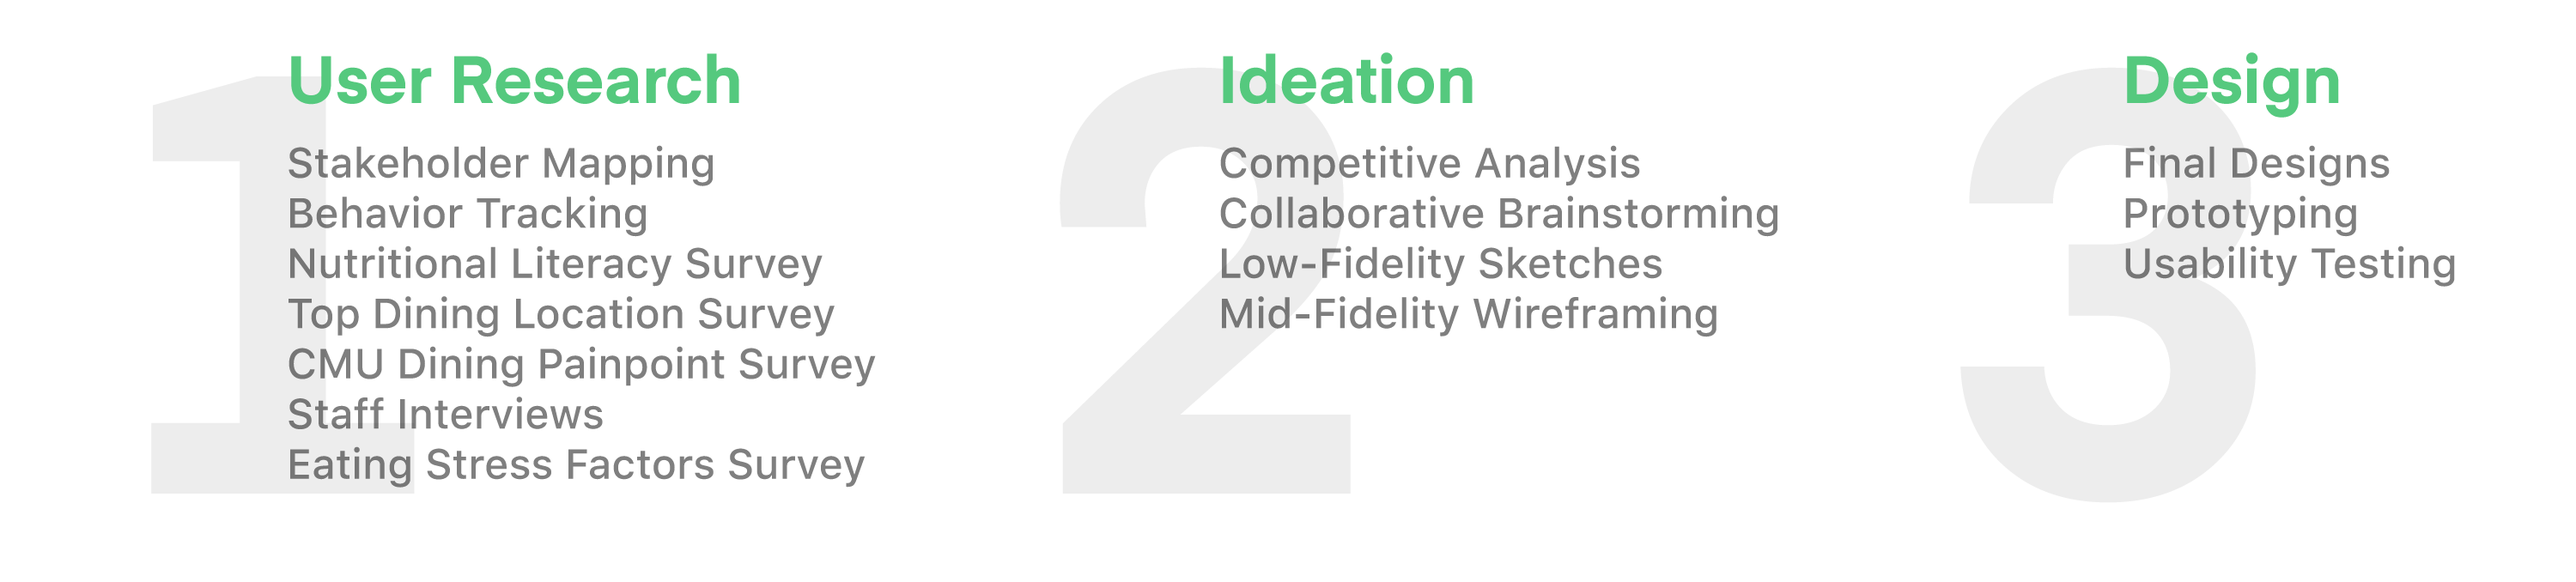
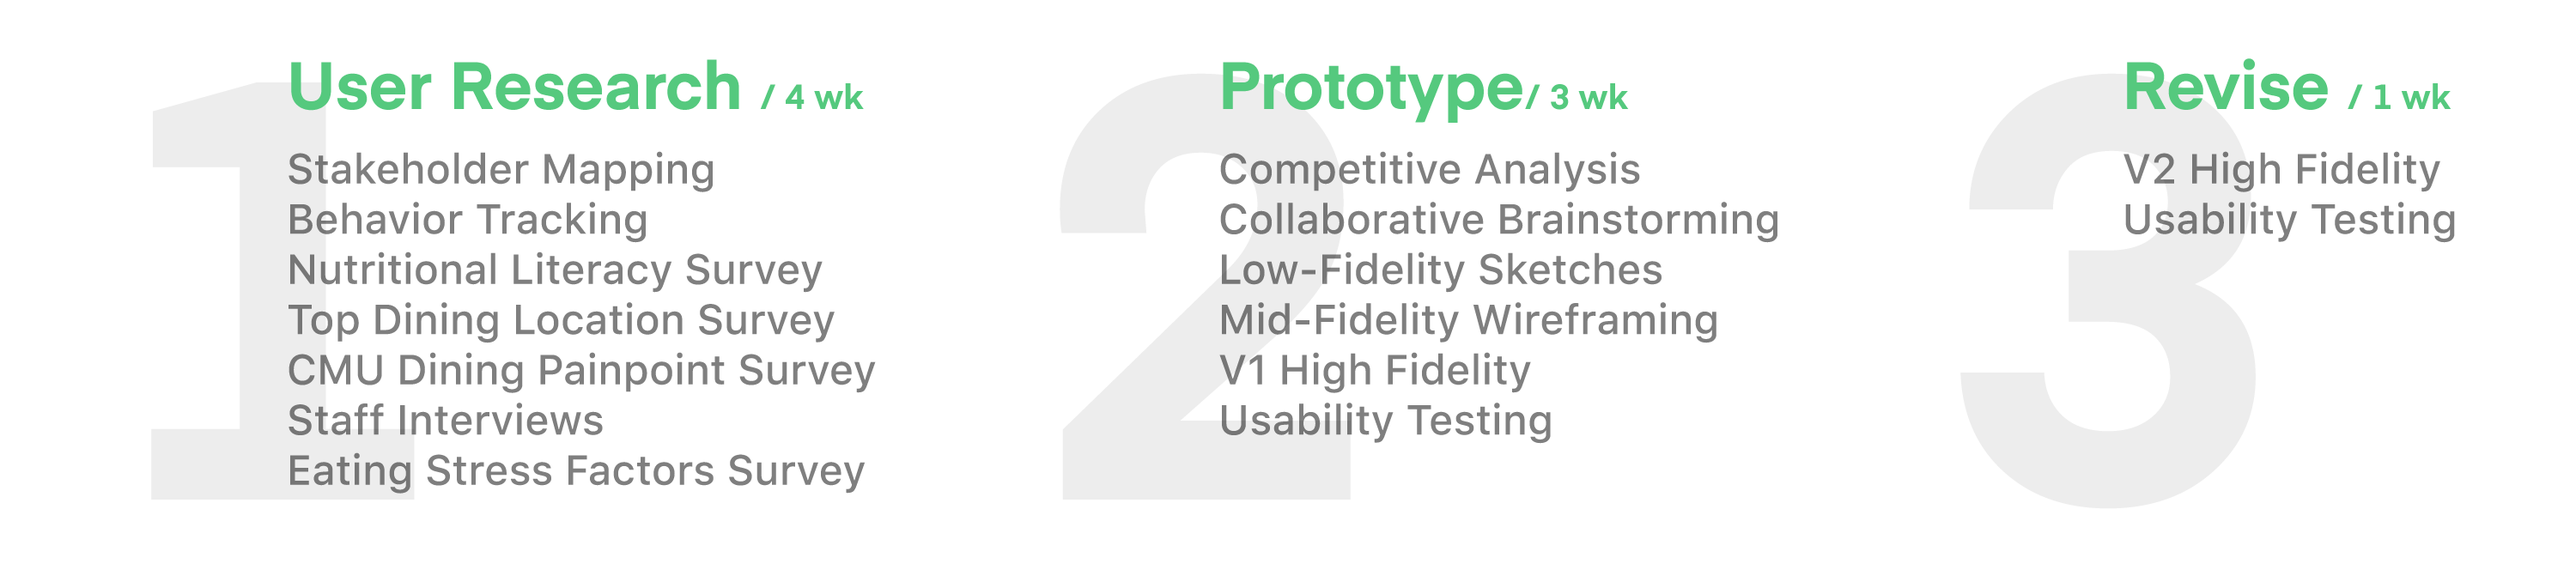
1

diff --git a/project_nutritionalLiteracy.html b/project_nutritionalLiteracy.html
@@ -227,7 +227,7 @@
                 <!-- IDEATION -->
                 <div class = 'gray-container'>
                     <div class='text-wrap'>
-                        <h4 class = 'left'>Ideation</h4>
+                        <h4 class = 'left'>Ideation + Prototyping</h4>
                         <div class = 'right'>
                             <h5>Competitive Analysis</h5>
                             <p>Upon finishing research, we looked at popular food and lifestyle apps to see what they did well. We chose these apps because of their popularity, practicality, ability to categorize large amounts of information, and convey/create emotion</p>
@@ -248,123 +248,124 @@
                     <img class='image-container' src="images/project_nutritionalLiteracy/I_sketches.jpg">
                     <p class='caption'>Doodles in my trust Moleskins</p>
                     <div class='spacer'></div>
-                    <img class='image-container' src="images/project_nutritionalLiteracy/P_lowFid.png">
-                    <p class='caption '>Sketch & Craft Prototyping</p>
+                    <img class='image-container' src="images/project_nutritionalLiteracy/P_lowFid2.png">
+                    <p class='caption '>High Fidelity</p>
+                    <div class='spacer'></div>
+                    <img class='image-container' src="images/project_nutritionalLiteracy/P_screenTest.jpg">
+                    <p class='caption '>UI Readability & Usability Testing</p>
+                    <!-- <div class='spacer'></div>
+
+                    <div class='text-wrap'>
+                        <div class = 'right'>
+                            <h4> Usability Test — Currently in Process</h4>
+                            <p>Documentation will be up soon!</p>
+                        </div>
+                    </div> -->
                 </div>
+                    <!-- FINAL DESIGNS -->
+                    <div class = 'white-container'>
+                        <div class='text-wrap'>
+                            <h4 class = 'left'>Final Designs</h4>
+                            <div class = 'right'>
+                                <h5>Overview</h5>
+                                <p>In our final app intervention, we made sure to cater towards the wide spectrum of CMU students and their dietary needs. The primary features we decided to design for include:</p><br>
 
-                                <!-- IDEATION -->
-                                <div class = 'white-container'>
-                                    <div class='text-wrap'>
-                                        <h4 class = 'left'>Final Designs</h4>
-                                        <div class = 'right'>
-                                            <h5>Overview</h5>
-                                            <p>In our final app intervention, we made sure to cater towards the wide spectrum of CMU students and their dietary needs. The primary features we decided to design for include:</p><br>
+                                <i style='color:#47b46d;'>
+                                01 / Living Dining Calendar<br><br>
+                                02 / Pre-order System<br><br>
+                                03 / Recipe Exploring + Sharing<br><br>
+                                04 / User Profile Hub<br><br>
+                                05 / CMU Health Services<br><br>
+                                06 / Emotional Check-ins</i><br><br>
 
-                                            <i style='color:#47b46d;'>
-                                            01 / Living Dining Calendar<br><br>
-                                            02 / Pre-order System<br><br>
-                                            03 / Recipe Exploring + Sharing<br><br>
-                                            04 / User Profile Hub<br><br>
-                                            05 / CMU Health Services<br><br>
-                                            06 / Emotional Check-ins</i><br><br>
+                                <h5>Live Dining — Calendar</h5>
+                                <p>The primary function for this app is the live dining calendar for on-campus restaurants. This already exists on CMU’s website as well as on a student-built site called CMU Eats, but the issue right now is a lot of valuable information on CMU dining is scattered across the web and across various digital services. <br><br>
 
-                                            <h5>Live Dining — Calendar</h5>
-                                            <p>The primary function for this app is the live dining calendar for on-campus restaurants. This already exists on CMU’s website as well as on a student-built site called CMU Eats, but the issue right now is a lot of valuable information on CMU dining is scattered across the web and across various digital services. <br><br>
+                                This feature is important to the app because it’s the practical feature that will keep students consistently using the app, and ultimately lead them to our more important features, which will be discussed later.
+                                From this page, users are able to explore individual dining locations and view individual restaurant items.</p>
+                            </div>
+                        </div>
+                        <div class='spacer'></div>
+                        <img class='image-container' src="images/project_nutritionalLiteracy/D_dining1.jpg">
+                        <div class='spacer'></div>
 
-                                            This feature is important to the app because it’s the practical feature that will keep students consistently using the app, and ultimately lead them to our more important features, which will be discussed later.
-                                            From this page, users are able to explore individual dining locations and view individual restaurant items.</p>
-                                        </div>
-                                    </div>
-                                    <div class='spacer'></div>
-                                    <img class='image-container' src="images/project_nutritionalLiteracy/D_dining1.jpg">
-                                    <div class='spacer'></div>
+                        <div class='text-wrap'>
+                            <div class = 'right'>
+                                <h5>Live Dining — Nutrition Facts</h5>
+                                <p> Viewing nutrition facts can contribute to obsessive nutrient tracking behaviors, so we designed the app to utilize a precautionary educational barrier that asks you to watch a awareness video before accessing macro tables.</p>
+                            </div>
+                            </div>
+                            <div class='spacer'></div>
+                            <img class='image-container-sixty' src="images/project_nutritionalLiteracy/D_dining2.jpg">
+                        </div>
 
-                                    <div class='text-wrap'>
-                                        <div class = 'right'>
-                                            <h5>Live Dining — Nutrition Facts</h5>
-                                            <p> Viewing nutrition facts can contribute to obsessive nutrient tracking behaviors, so we designed the app to utilize a precautionary educational barrier that asks you to watch a awareness video before accessing macro tables.</p>
-                                        </div>
-                                        </div>
-                                        <div class='spacer'></div>
-                                        <img class='image-container-sixty' src="images/project_nutritionalLiteracy/D_dining2.jpg">
-                                    </div>
+                        <div class='text-wrap'>
+                            <div class = 'right'>
+                                <h5>Living Dining - Preorder System</h5>
+                                <p>One of the biggest priorities we found among students was convenience and time. Introducing a pre-order system addresses this concern, ultimately helping students have a more stress-free and efficient day.</p>
+                            </div>
+                            </div>
+                            <div class='spacer'></div>
+                            <img class='image-container-sixty' src="images/project_nutritionalLiteracy/D_dining3.jpg">
+                            <div class='spacer'></div>
+                        </div>
 
-                                    <div class='text-wrap'>
-                                        <div class = 'right'>
-                                            <h5>Living Dining - Preorder System</h5>
-                                            <p>One of the biggest priorities we found among students was convenience and time. Introducing a pre-order system addresses this concern, ultimately helping students have a more stress-free and efficient day.</p>
-                                        </div>
-                                        </div>
-                                        <div class='spacer'></div>
-                                        <img class='image-container-sixty' src="images/project_nutritionalLiteracy/D_dining3.jpg">
-                                        <div class='spacer'></div>
-                                    </div>
+                        <div class='text-wrap'>
+                            <div class = 'right'>
+                                <h5>Recipe Page</h5>
+                                <p>For people who sometimes or fully eat off campus, we added a recipe viewing and sharing aspect. 
+                                    We didn’t, however want to create a social media platform, so you can simply save recipes, but not see the quantity of saves- didn’t want to contribute to the negative aspects of social media and nutrition, all about maintaining privacy, but creating a community at the same time. On each individual recipe page, users are able to view crucial information relevant to the recipe.</p>
+                            </div>
+                            </div>
+                            <div class='spacer'></div>
+                            <img class='image-container' src="images/project_nutritionalLiteracy/D_recipe.jpg">
+                            <div class='spacer'></div>
+                        </div>
 
-                                    <div class='text-wrap'>
-                                        <div class = 'right'>
-                                            <h5>Recipe Page</h5>
-                                            <p>For people who sometimes or fully eat off campus, we added a recipe viewing and sharing aspect. 
-                                                We didn’t, however want to create a social media platform, so you can simply save recipes, but not see the quantity of saves- didn’t want to contribute to the negative aspects of social media and nutrition, all about maintaining privacy, but creating a community at the same time. On each individual recipe page, users are able to view crucial information relevant to the recipe.</p>
-                                        </div>
-                                        </div>
-                                        <div class='spacer'></div>
-                                        <img class='image-container' src="images/project_nutritionalLiteracy/D_recipe.jpg">
-                                        <div class='spacer'></div>
-                                    </div>
+                        <div class='text-wrap'>
+                            <div class = 'right'>
+                                <h5>User Profile Page</h5>
+                                <p>Obviously, nutrition is highly dependent on the individual and their eating tendencies. Because of that, Carnegie Kitchen allows users to save and share recipes, and access saved videos from the Tips n' Tricks page.</p>
+                            </div>
+                            </div>
+                            <div class='spacer'></div>
+                            <img class='image-container-fourty' src="images/project_nutritionalLiteracy/D_userProfile.jpg">
+                            <div class='spacer'></div>
+                        </div>
 
-                                    <div class='text-wrap'>
-                                        <div class = 'right'>
-                                            <h5>User Profile Page</h5>
-                                            <p>Obviously, nutrition is highly dependent on the individual and their eating tendencies. Because of that, Carnegie Kitchen allows users to save and share recipes, and access saved videos from the Tips n' Tricks page.</p>
-                                        </div>
-                                        </div>
-                                        <div class='spacer'></div>
-                                        <img class='image-container-fourty' src="images/project_nutritionalLiteracy/D_userProfile.jpg">
-                                        <div class='spacer'></div>
-                                    </div>
+                        <div class='text-wrap'>
+                            <div class = 'right'>
+                                <h5>Tips N' Tricks</h5>
+                                <p>Because our research revealed people don't have a healthy outlook on what properly nourishing oneself means, we designed Carnegie Kitchen to have a video resources page. This page provides practical videos that include emotion-based videos to establish the role nutrition and foods play in shaping one's emotional health. This feature is also meant to help people to move from thinking of food in terms of appearance to nutrition as a way of improving mental wellbeing.</p>
+                            </div>
+                        </div>
+                            <div class='spacer'></div>
+                            <img class='image-container-fourty' src="images/project_nutritionalLiteracy/D_tipsNTricks.jpg">
+                            <div class='spacer'></div>
+                        </div>
 
-                                    <div class='text-wrap'>
-                                        <div class = 'right'>
-                                            <h5>Tips N' Tricks</h5>
-                                            <p>Because our research revealed people don't have a healthy outlook on what properly nourishing oneself means, we designed Carnegie Kitchen to have a video resources page. This page provides practical videos that include emotion-based videos to establish the role nutrition and foods play in shaping one's emotional health. This feature is also meant to help people to move from thinking of food in terms of appearance to nutrition as a way of improving mental wellbeing.</p>
-                                        </div>
-                                    </div>
-                                        <div class='spacer'></div>
-                                        <img class='image-container-fourty' src="images/project_nutritionalLiteracy/D_tipsNTricks.jpg">
-                                        <div class='spacer'></div>
-                                    </div>
+                        <div class='text-wrap'>
+                            <div class = 'right'>
+                                <h5>Emotional Check-ins</h5>
+                                <p> Food has an emotional effect on all of us, especially for vulnerable eaters. Because this aspect of eating is often overlooked, we integrated occasional emotional banner check-ins. If the app notices that a user has been feeling down lately, we help them process and respond to their emotions in a non-destructive ways, such as talking to CMU services, watching emotional resources, and an external link to some food memes. :)</p>
+                            </div>
+                        </div>
+                            <div class='spacer'></div>
+                            <img class='image-container-fourty' src="images/project_nutritionalLiteracy/D_emotionalCheckIn.jpg">
+                            <div class='spacer'></div>
+                        </div>
 
-                                    <div class='text-wrap'>
-                                        <div class = 'right'>
-                                            <h5>Emotional Check-ins</h5>
-                                            <p> Food has an emotional effect on all of us, especially for vulnerable eaters. Because this aspect of eating is often overlooked, we integrated occasional emotional banner check-ins. If the app notices that a user has been feeling down lately, we help them process and respond to their emotions in a non-destructive ways, such as talking to CMU services, watching emotional resources, and an external link to some food memes. :)</p>
-                                        </div>
-                                    </div>
-                                        <div class='spacer'></div>
-                                        <img class='image-container-fourty' src="images/project_nutritionalLiteracy/D_emotionalCheckIn.jpg">
-                                        <div class='spacer'></div>
-                                    </div>
 
-        
-                                    <div class='text-wrap'>
-                                        <div class = 'right'>
-                                            <h5>CMU Health Services</h5>
-                                            <p>From our interviews with both students and staff, we found that there is lack of relationship between CMU services, not because CMU services aren’t good, but because students don’t know about it. The app has an entire page dedicated to CMU Health Services in hoeps of building a stronger relationship between the two parties through access and knowledge.</p>
-                                        </div>
-                                    </div>
-                                    <div class='spacer'></div>
-                                    <img class='image-container-sixty' src="images/project_nutritionalLiteracy/D_services.jpg">
-                                    <div class='spacer'></div>
-                                </div>
-                                <div class='gray-container'>
-                                    <div class='text-wrap'>
-                                        <div class = 'left'><h3>Usability Testing</h3></div>
-                                        <div class = 'right'>
-                                            <h4> Currently in Process</h4>
-                                            <p>We are near the end of user testing, documentation will be up soon!</p>
-                                        </div>
-                                    </div>
-                                </div>
+                        <div class='text-wrap'>
+                            <div class = 'right'>
+                                <h5>CMU Health Services</h5>
+                                <p>From our interviews with both students and staff, we found that there is lack of relationship between CMU services, not because CMU services aren’t good, but because students don’t know about it. The app has an entire page dedicated to CMU Health Services in hoeps of building a stronger relationship between the two parties through access and knowledge.</p>
+                            </div>
+                        </div>
+                        <div class='spacer'></div>
+                        <img class='image-container-sixty' src="images/project_nutritionalLiteracy/D_services.jpg">
+                        <div class='spacer'></div>
+                    </div>
                             
                 <div class="footer-container">
                     <div class="footer wrapper">
